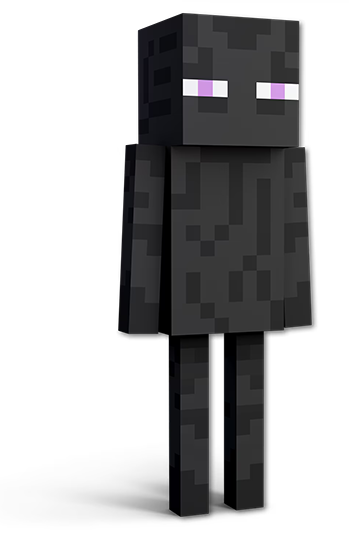
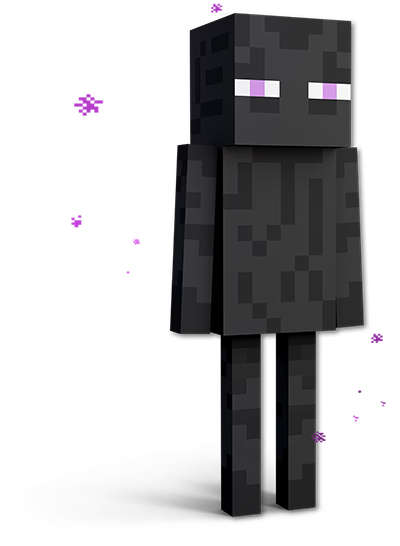
j

diff --git a/writing.html b/writing.html
@@ -11,25 +11,32 @@
 <body>
 <a href='index.html'><img id='home' src='img/icon graphic.png' height='20px'></a>
 	<h2>blog</h2>
+w = word count
 
     <ul>
 	<li><a href='blog/continual/game-reviews.html'>game reviews</a></li>
 	<li><a href='blog/continual/book-reviews.html'>book reviews</a></li>
-<!--	<li><a href='blog/continual/anime-manga-reviews.html'>anime/manga reviews</a></li>
-	<li><a href='blog/continual/isolated-remarks.html'>random remarks</a></li>-->
-	</ul>
+<!--	<li><a href='blog/continual/isolated-remarks.html'>random remarks</a></li>-->
+	</ul><br>
 
-<p>discrete posts - mix of casual and 'rigorous' stuff.</p>
+<p>the more interesting posts:</p>
+<ul>
+	<li><a href='blog/reasoning-emotion.html'>08.20.23 (116w) - reasoning and emotion</a></li>
+	<li><a href='blog/probably-effective-language.html'>03.07.23 (331w) - (probably) effective language learning</a></li>
+</ul><br>
+
+
+<p>all (wouldn't recommend reading most of these, they're half for archival purposes): </p>
 
     <ul>
-	<li><a href='blog/reasoning-emotion.html'>08.20.23 - briefly, reasoning and emotion</a></li>
-	<li><a href='blog/skill-generalisation.html'>04.23.23 - notes on skill/generalisation</a></li>
-	<li><a href='blog/notes-on-representation.html'>03.25.23 - notes on representation in art</a></li>
-	<li><a href='blog/comments-about-bell.html'>03.20.23 - notes on bell's 'aesthetic hypothesis'</a></li>
-        <li><a href='blog/ai.html'>03.11.23 - briefly, ai art</a></li>
-        <li><a href='blog/personal-expression-or.html'>03.09.23 - notes on personal expression</a></li>
-        <li><a href='blog/painting-and-technical.html'>03.09.23 - notes on technical improvement</a></li>
-	<li><a href='blog/probably-effective-language.html'>03.07.23 - (probably) effective language learning</a></li>
+	<li><a href='blog/reasoning-emotion.html'>08.20.23 (116w) - reasoning and emotion</a></li>
+	<li><a href='blog/skill-generalisation.html'>04.23.23 (381w) - skill/generalisation</a></li>
+	<li><a href='blog/notes-on-representation.html'>03.25.23 (759w) - representation in art</a></li>
+	<li><a href='blog/comments-about-bell.html'>03.20.23 (853w) - comments on bell's 'aesthetic hypothesis'</a></li>
+        <li><a href='blog/ai.html'>03.11.23 (249w) - ai art</a></li>
+        <li><a href='blog/personal-expression-or.html'>03.09.23 (365w) - personal expression</a></li>
+        <li><a href='blog/painting-and-technical.html'>03.09.23 (713w) - technical improvement</a></li>
+	<li><a href='blog/probably-effective-language.html'>03.07.23 (331w) - (probably) effective language learning</a></li>
 	</ul><br>
 
 <!--

diff --git a/links.html b/links.html
@@ -14,15 +14,24 @@
 personal
 <ul>
 <li><a href='https://www.goodreads.com/lukajk'>goodreads</a></li>
-<li><a href='https://myanimelist.net/profile/lukajk'>myanimelist</a></li>
-<li><a href='https://glitchwave.com/user/lukajk/'>glitchwave</a></li>
-	<li><a href='https://twitter.com/lukajk01'>twitter</a></li>
+<li><a href='https://twitter.com/lukajk01'>twitter</a></li>
+</ul><br>
+
+art/design
+<ul>
+<li><a href='https://search.bilibili.com/all?keyword=craig%20mullins&from_source=webtop_search&spm_id_from=333.1007&search_source=5'>craig mullins - bilibili</a></li>
+<li><a href='https://www.youtube.com/watch?v=cZ9qQlYo0Yk&list=PLRDhcp_8c7uBSFCvYZ_60578yI5SqpHPW'>half-life alyx: developer's commentaries</a></li>
 </ul>
-   
+
+blogposts
+<ul>
+<li><a href='https://guzey.com/intelligence-killed-genius/'>intelligence killed genius</a></li>
+</ul>
+
+
 misc
-    <ul>
-        <li><a href='https://mathshistory.st-andrews.ac.uk/Extras/Poincare_Intuition/'>Poincaré on intuition in mathematics</a></li>
-        <li><a href='https://archive.org/details/CraigMullinsSijunPosts/'>Craig Mullins Sijun Posts</a></li>
-    </ul>
+<ul><li><a href='https://mathshistory.st-andrews.ac.uk/Extras/Poincare_Intuition/'>poincaré on intuition in mathematics</a></li>
+</ul>
+
 </body>
 </html>

diff --git a/blog/continual/isolated-remarks.html b/blog/continual/isolated-remarks.html
@@ -3,16 +3,13 @@
 <head>
     <meta charset='utf-8'>
     <title>lukajk</title>
-	<link rel="icon" type="image/x-icon" href="img/favicon.ico">
+	<link rel="icon" type="image/x-icon" href="../../img/favicon.ico">
     <link rel='stylesheet' href='../../css/style.css'> 
 </head>
 <body>
-	<h2>random remarks</h2><br>
-<p>
+<h2>random remarks</h2>
 
---
-
-It's best to give problems in philosophy some amount of work yourself prior to reading other people's thoughts. It makes it much more like a conversation where there's a back and forth; maybe they address an issue that occurred to you and maybe not</p><br>
+<p>I've always thought guilt-tripping yourself whenever you're not being 'productive' was a weird thing to do. I think human experience and the 'worthiness' of a day can't be seen in quantifiable terms, as <a href='https://guzey.com/'>Mr. Guzey</a> seems to treat them. Continually forcing yourself to do something 'productive' is literally self-inflicted torture.  </p><br>
 
 
 <br><a href='../../writing.html'><img id='home' src='../../img/icon graphic.png' height='20px'></a><span style='padding:100px;'></span>

diff --git a/about.html b/about.html
@@ -10,7 +10,7 @@
 <body>
 <a href='index.html'><img id='home' src='img/icon graphic.png' height='20px'></a>
     <h2>about</h2>
-<img src='img/enderman_crop.png' height='200px' draggable='false' style='position:relative;right:30px;'>
+<img src='img/enderman_crop.png' height='200px' draggable='false' style='position:relative;right:50px;'>
 <p>just someone on the internet
 I do creative things to pass the time 
 been playing a lot of vsrgs lately (rhythm game subgenre)

diff --git a/index.html b/index.html
@@ -24,7 +24,7 @@
 li {padding:0;}
 		i {color: #5e5e5e;font-size: 14px;}
 a:hover {margin-left:8px;}
-		img {position:relative;right:30px;}
+		img {position:relative;right:50px;}
 	</style>
 </head>
 <body>
